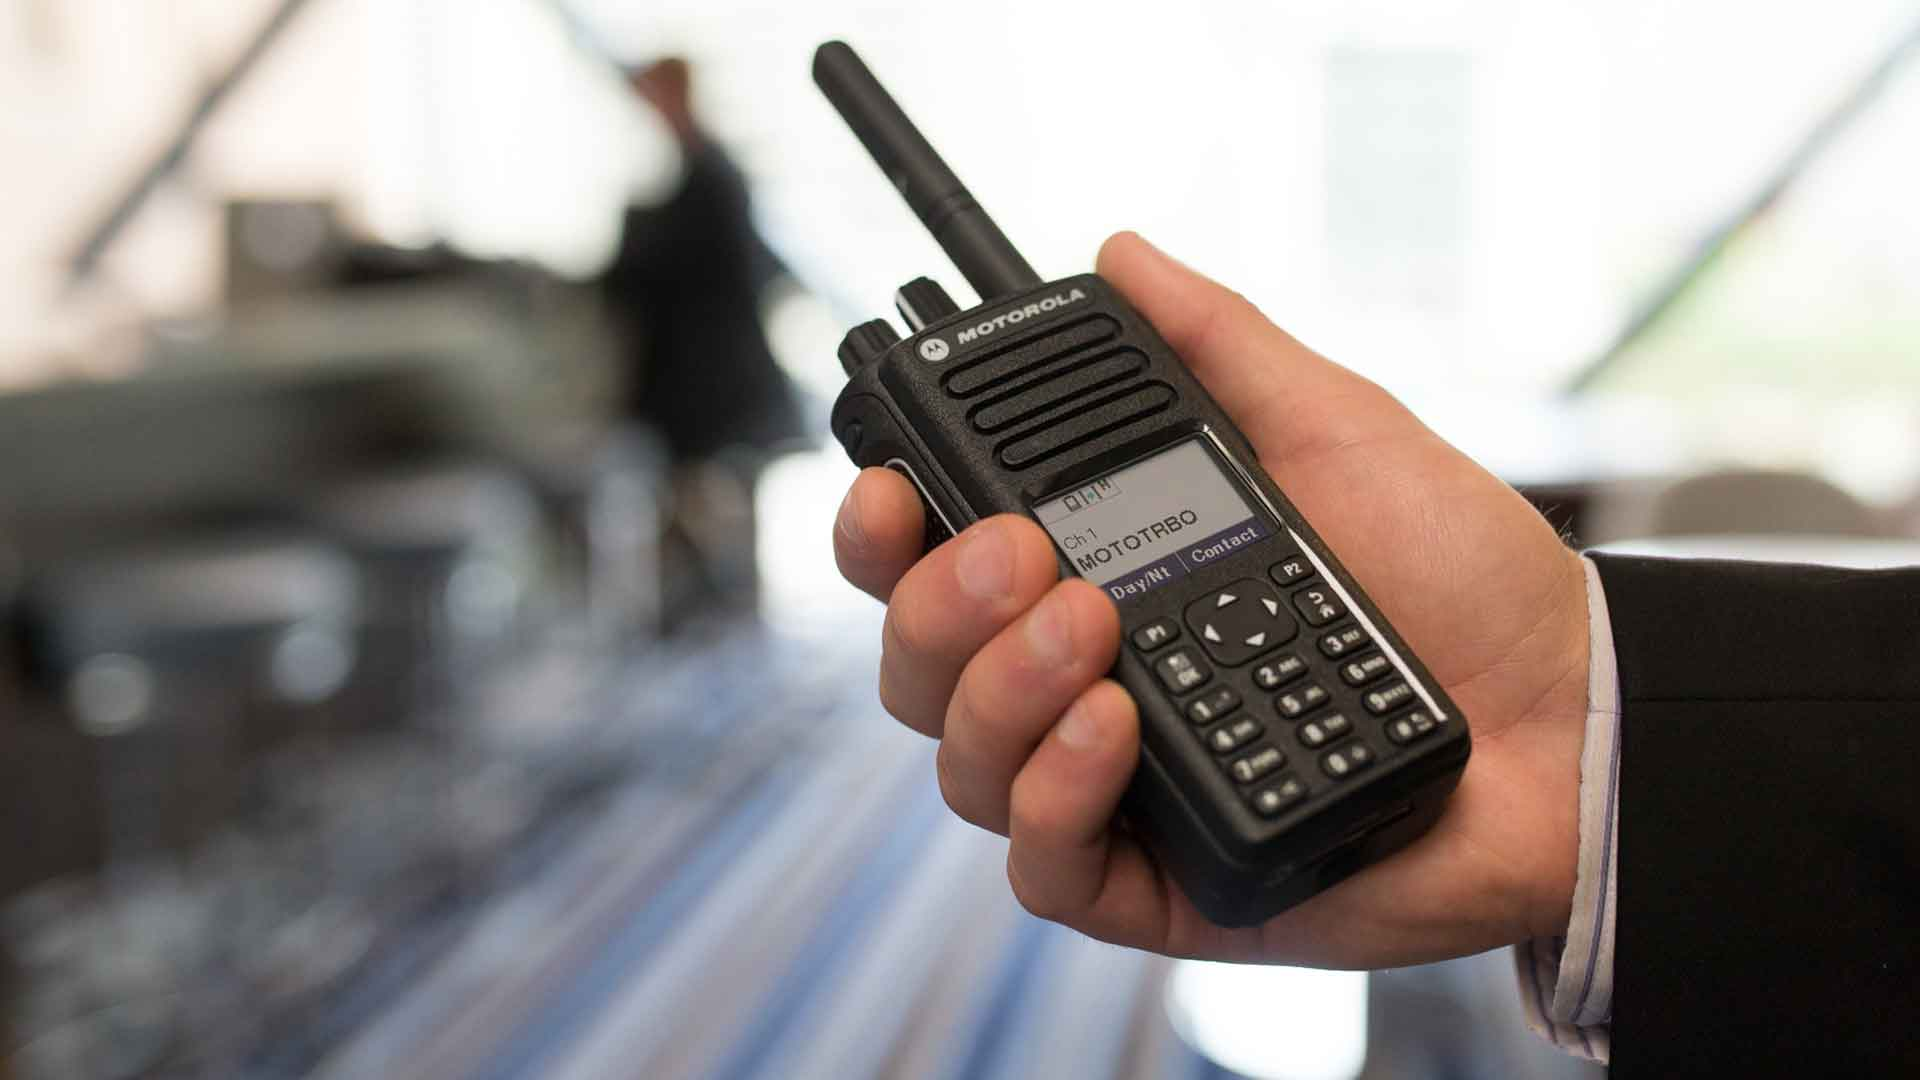
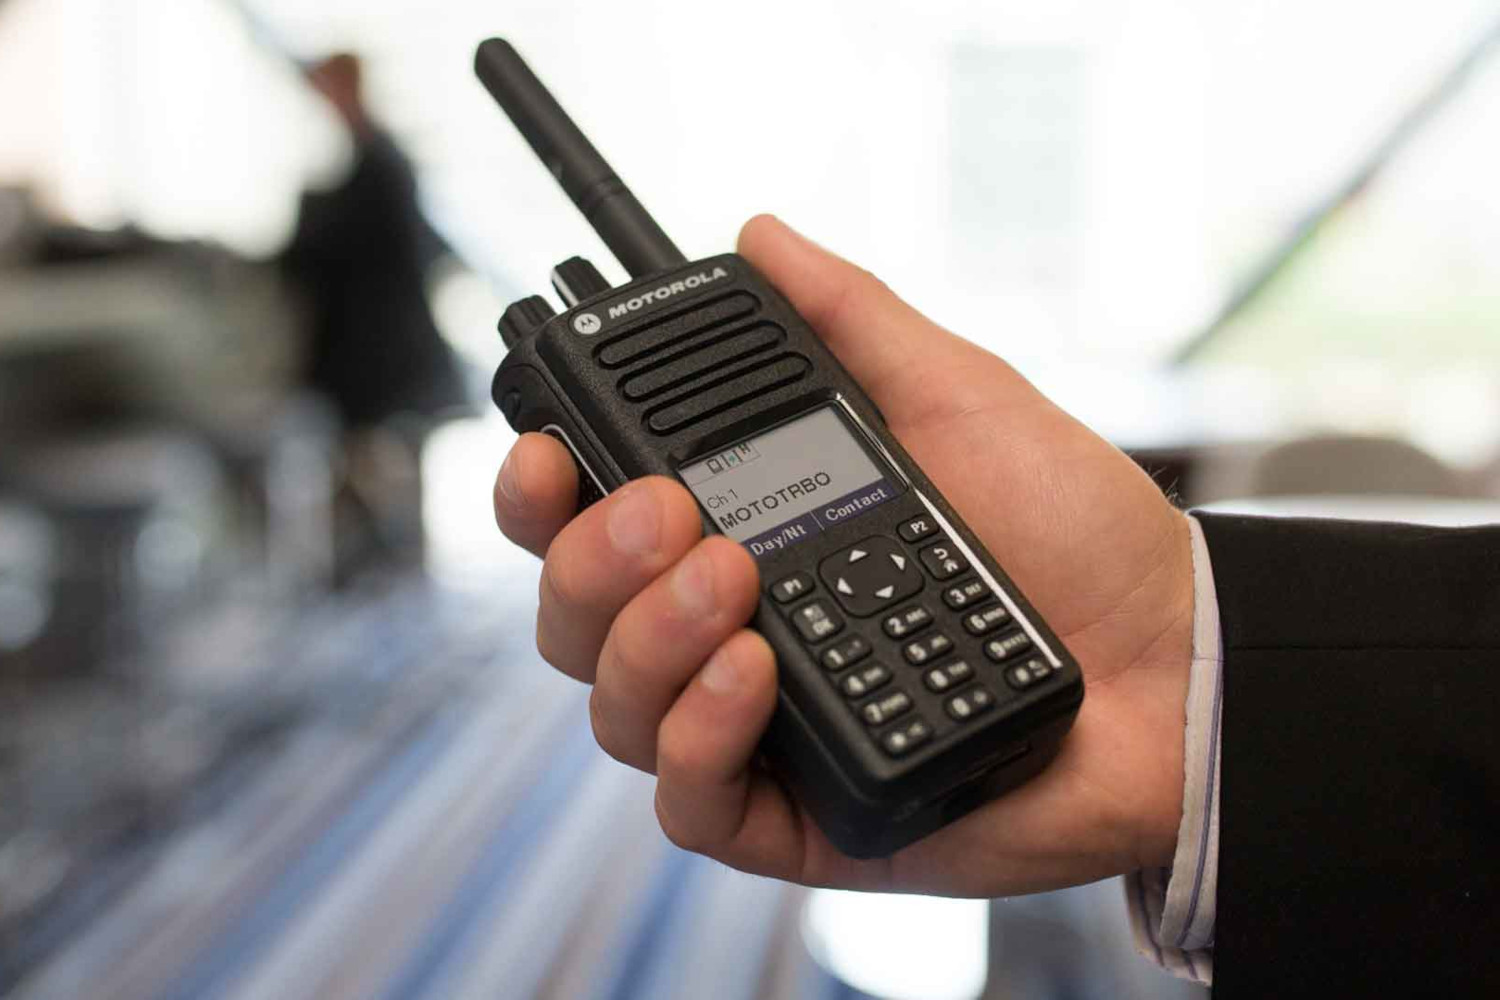
Add files via upload

diff --git a/index.html b/index.html
@@ -14,7 +14,7 @@
     <title>Master Radiocomunicação</title>
   </head>
   <body>
-
+    <script src="./js/funcoes.js"></script>
     <div class="contato_top">
       <div class="container">
           <div class="row justify-content-sm-center text-center">
@@ -68,10 +68,12 @@
         </div>
       </nav>
 
+
           
-    <div class="zap" style="width: 100px; height: 100px; position: fixed; right: 20px; bottom: 20px; z-index: 1000;">
-      <img src="imgs/zap.png" alt="" width="90px" onclick="location.href='https://api.whatsapp.com/send?phone=5513997191911';" style="cursor: pointer;">
-    </div>
+      <div class="zap" style="width: 100px; height: 100px; position: fixed; right: 20px; bottom: 20px; z-index: 1000;">
+        <img src="imgs/zap.png" alt="" width="90px" onclick="location.href='https://api.whatsapp.com/send?phone=5513997191911';" style="cursor: pointer;">
+      </div>  
+
 
       <!--Carrosel-->
       <div id="carouselExampleCaptions" class="carousel slide carousel-fade" data-ride="carousel">
@@ -82,21 +84,21 @@
         </ol>
         <div class="carousel-inner">
           <div class="carousel-item active">
-            <img src="./imgs/imagens_motorola/img1_crop.jpg" class="d-block w-100" alt="...">
+            <img id="slide01" src="./imgs/imagens_motorola/img1_crop.jpg" class="d-block w-100" alt="...">
             <div class="carousel-caption d-none d-md-block msg-car">
               <h2>A 20 anos no mercado.</h2>
               <h5>Trabalhando com comprometimento e promovendo satisfação aos clientes.</h5>
             </div>
           </div>
           <div class="carousel-item">
-            <img src="./imgs/imagens_motorola/img2_crop.jpg" class="d-block w-100" alt="...">
+            <img id="slide02" src="./imgs/imagens_motorola/img2_crop.jpg" class="d-block w-100" alt="...">
             <div class="carousel-caption d-none d-md-block msg-car">
               <h2>Qualidade em serviços e Equipamentos de primeira linha</h2>
               <h5>Equipamentos novos e semi-novos.</h5>
             </div>
           </div>
           <div class="carousel-item">
-            <img src="./imgs/imagens_motorola/img3_crop.jpg" class="d-block w-100" alt="...">
+            <img id="slide03" src="./imgs/imagens_motorola/img3_crop.jpg" class="d-block w-100" alt="...">
             <div class="carousel-caption d-none d-md-block msg-car">
               <h2>Loteamento Planejado</h2>
               <h5>Amplo espaço para segurança e conforto de sua familia.</h5>
@@ -132,7 +134,7 @@
             
                 <div class="card mb-5">
                     
-                    <img class="card-img-top" src="./imgs/card0003.png">
+                    <img class="card-img-top" src="./imgs/card3.png">
                     <div class="card-body">
                         <h4 class="card-title text-center">Locação de Equipamentos</h4>
                         <h6 class="card-subtitle mb-2 text-muted text-center">Sistemas de radiocomunicação para locação para os mais variados segmentos de mercado.</h6>
@@ -153,7 +155,7 @@
             
                 <div class="card mb-5">
                     
-                    <img class="card-img-top" src="./imgs/card0001.png">
+                    <img class="card-img-top" src="./imgs/card1.png">
                     <div class="card-body">
                         <h4 class="card-title text-center">Assistência técnica</h4>
                         <h6 class="card-subtitle mb-2 text-muted text-center">Laboratório técnico de alta tecnologia para resolver todo tipo de problema de seus equipamentos.</h6>
@@ -175,7 +177,7 @@
             
                 <div class="card mb-5">
                     
-                    <img class="card-img-top" src="./imgs/card0002.png">
+                    <img class="card-img-top" src="./imgs/card2.png">
                     <div class="card-body">
                         <h4 class="card-title text-center">Eficiência e Qualidade</h4>
                         <h6 class="card-subtitle mb-2 text-muted text-center">Temos uma completa linha de soluções para os mais diversos modelos de negócio.</h6>

diff --git a/js/funcoes.js b/js/funcoes.js
@@ -1,0 +1,28 @@
+/*
+
+*/
+function mudarFoto(){
+    var body = document.querySelector('body');
+    var disBody = body.offsetWidth;
+    var slide01 = document.getElementById("slide01");
+    var slide02 = document.getElementById("slide02");
+    var slide03 = document.getElementById("slide03");
+    
+    
+    if (disBody < 700) {
+        slide01.setAttribute('src', './imgs/imagens_motorola/img1.jpg');
+        slide02.setAttribute('src', './imgs/imagens_motorola/img2.jpg');
+        slide03.setAttribute('src', './imgs/imagens_motorola/img3.jpg');
+    }else{
+        slide01.setAttribute('src', './imgs/imagens_motorola/img1_crop.jpg');
+        slide02.setAttribute('src', './imgs/imagens_motorola/img2_crop.jpg');
+        slide03.setAttribute('src', './imgs/imagens_motorola/img3_crop.jpg');
+    } 
+
+
+
+}
+
+window.onload = function() {
+    mudarFoto();
+}
